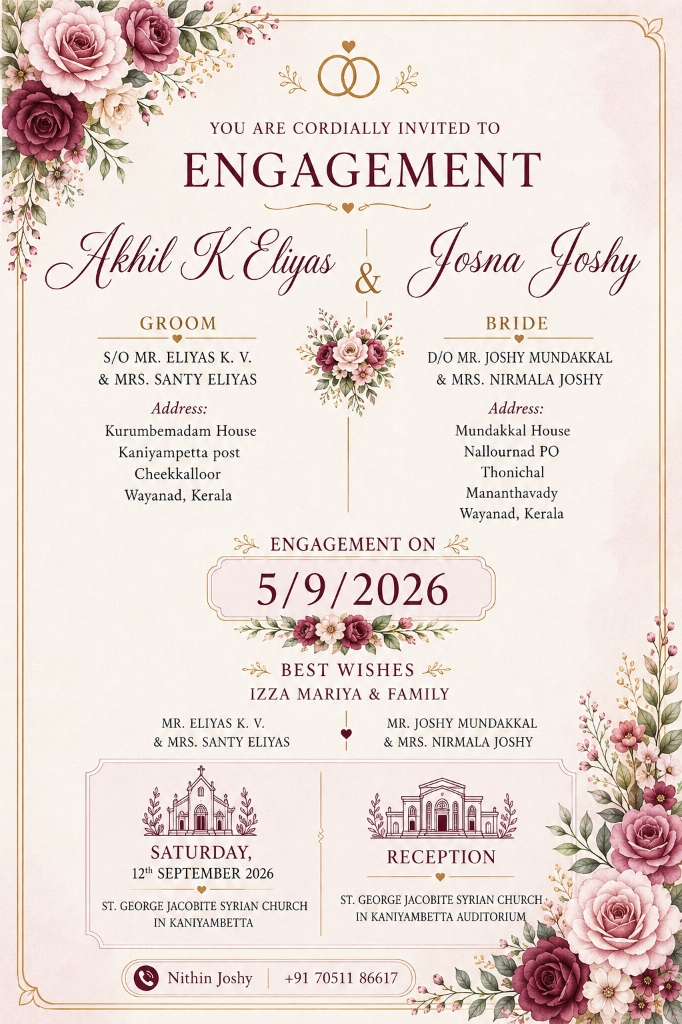
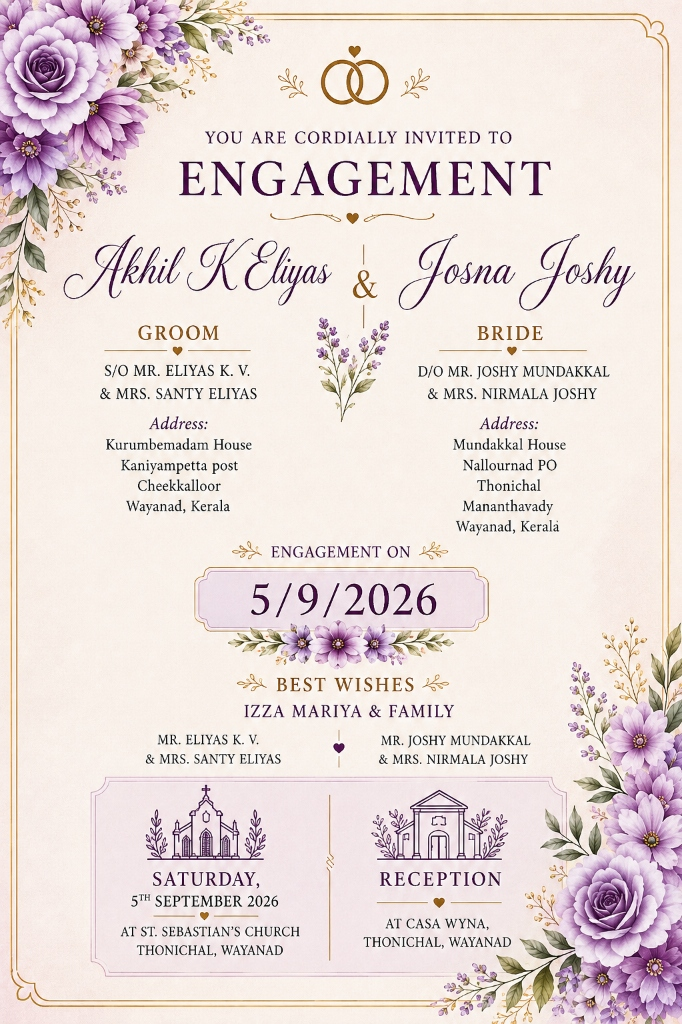
feat: Update engagement invitation card image; enhance EventItinerary with reception map URL and improved directions layout

Changed region(s): [[0.0, 0.0, 1.0, 1.0], [0.154, 0.3125, 0.3695, 0.5], [0.7082, 0.5625, 0.739, 0.5938]]

diff --git a/src/components/EventItinerary.jsx b/src/components/EventItinerary.jsx
@@ -16,6 +16,7 @@ export default function EventItinerary() {
       contactPerson: 'Nithin Joshy',
       contactPhone: '+91 70511 86617',
       mapUrl: 'https://maps.google.com/?q=St.+Sebastian%27s+Church+Thonichal+Wayanad',
+      receptionMapUrl: 'https://maps.google.com/?q=Casa+Wyna+Thonichal+Wayanad',
     },
     {
       id: 'nuptials',
@@ -136,14 +137,27 @@ export default function EventItinerary() {
                   )}
                 </div>
 
-                <a
-                  href={evt.mapUrl}
-                  target="_blank"
-                  rel="noopener noreferrer"
-                  className="w-full py-2.5 px-4 rounded-xl bg-[#FAF7F2] hover:bg-[#8B263E] hover:text-white border border-[#C5A059]/30 text-[#8B263E] font-cinzel text-xs uppercase tracking-wider font-semibold transition-all flex items-center justify-center gap-2 mt-4 shadow-sm"
-                >
-                  <Navigation className="w-3.5 h-3.5" /> Get Directions
-                </a>
+                <div className="flex flex-col gap-2 mt-4">
+                  <a
+                    href={evt.mapUrl}
+                    target="_blank"
+                    rel="noopener noreferrer"
+                    className="w-full py-2.5 px-4 rounded-xl bg-[#FAF7F2] hover:bg-[#8B263E] hover:text-white border border-[#C5A059]/30 text-[#8B263E] font-cinzel text-xs uppercase tracking-wider font-semibold transition-all flex items-center justify-center gap-2 shadow-sm"
+                  >
+                    <Church className="w-3.5 h-3.5" /> {evt.receptionVenue ? 'Church Directions' : 'Get Directions'}
+                  </a>
+
+                  {evt.receptionMapUrl && (
+                    <a
+                      href={evt.receptionMapUrl}
+                      target="_blank"
+                      rel="noopener noreferrer"
+                      className="w-full py-2.5 px-4 rounded-xl bg-[#FAF7F2] hover:bg-[#593275] hover:text-white border border-[#593275]/30 text-[#593275] font-cinzel text-xs uppercase tracking-wider font-semibold transition-all flex items-center justify-center gap-2 shadow-sm"
+                    >
+                      <Navigation className="w-3.5 h-3.5 text-[#E5C384]" /> Reception (Casa Wyna)
+                    </a>
+                  )}
+                </div>
               </div>
             </div>
           ))}

diff --git a/dist/index.html b/dist/index.html
@@ -32,8 +32,8 @@
     <link href="https://fonts.googleapis.com/css2?family=Alex+Brush&family=Cinzel:wght@400;500;600;700;800&family=Cormorant+Garamond:ital,wght@0,400;0,500;0,600;0,700;1,400;1,600&family=Great+Vibes&family=Inter:wght@300;400;500;600;700&display=swap" rel="stylesheet">
     
     <link rel="icon" type="image/jpeg" href="/images/oil-painting-portrait.jpg" />
-    <script type="module" crossorigin src="/assets/index-g0dLAaT8.js"></script>
-    <link rel="stylesheet" crossorigin href="/assets/index-A7kkHNek.css">
+    <script type="module" crossorigin src="/assets/index-CdtBF_IV.js"></script>
+    <link rel="stylesheet" crossorigin href="/assets/index-xZmLhTTm.css">
   </head>
   <body class="bg-[#FAF7F2] text-[#2C2623] antialiased selection:bg-[#C5A059]/20 selection:text-[#8B263E] overflow-x-hidden">
     <div id="root"></div>
